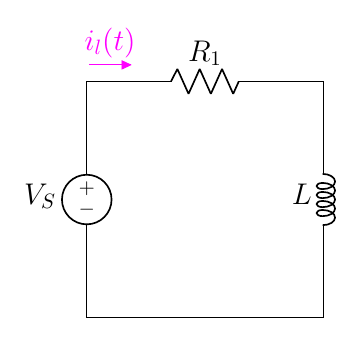
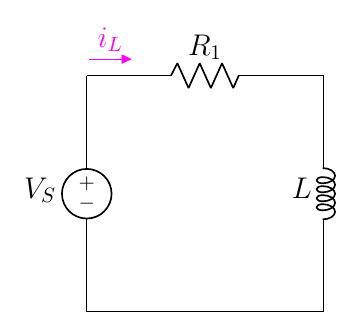
8.49

diff --git a/2.3 Driven RL/8.6 Driven RL Circuit/8.49(new).tex b/2.3 Driven RL/8.6 Driven RL Circuit/8.49(new).tex
@@ -20,7 +20,7 @@
         to[short] ++(4,0);
     %%% find %%%
     \draw[circuitikz/current arrow color=magenta](0,4)
-    to[open,f>^=$\color{magenta}{i_l(t)}$] ++(2,0);
+    to[open,f>^=$\color{magenta}{i_L}$] ++(2,0);
     % \draw[magenta](6,3)  
     %     to[open,v^=$v_L$] ++(0,-2);
 \end{circuitikz}
